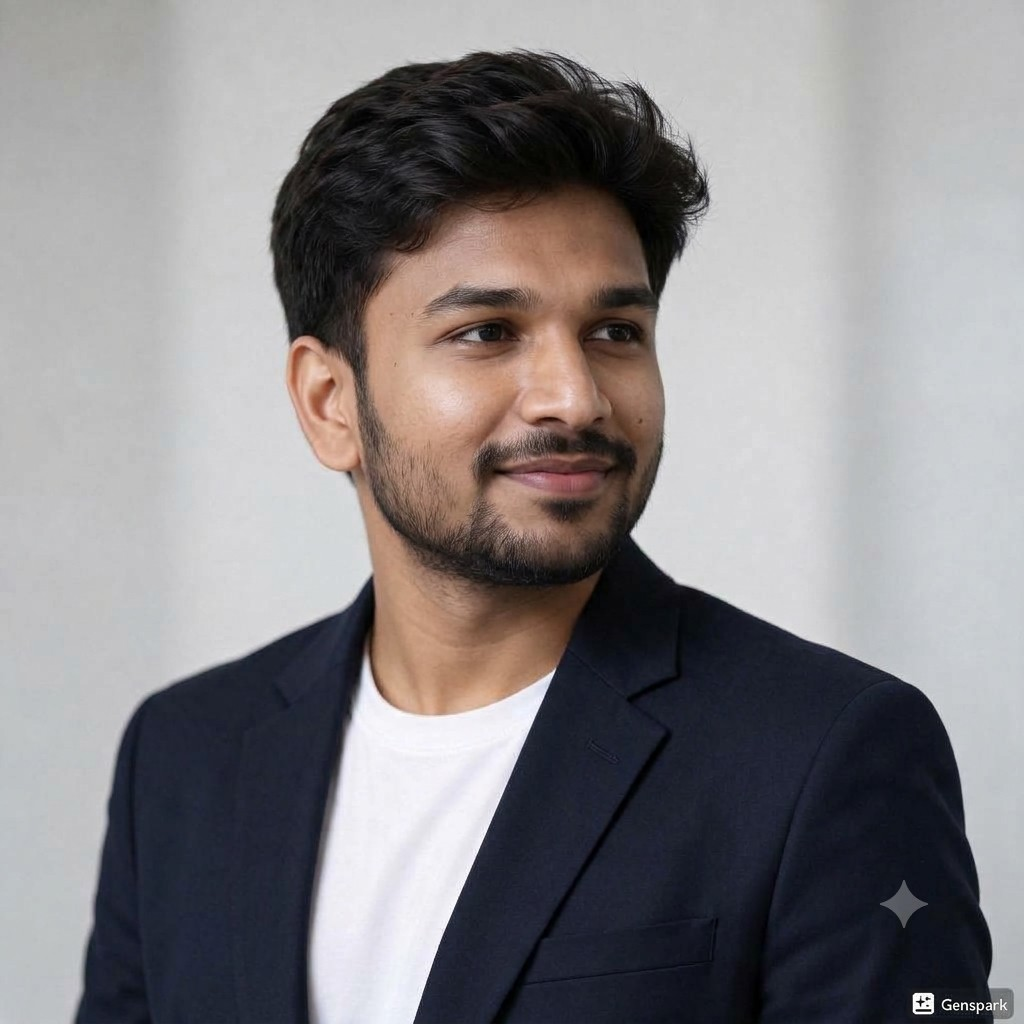
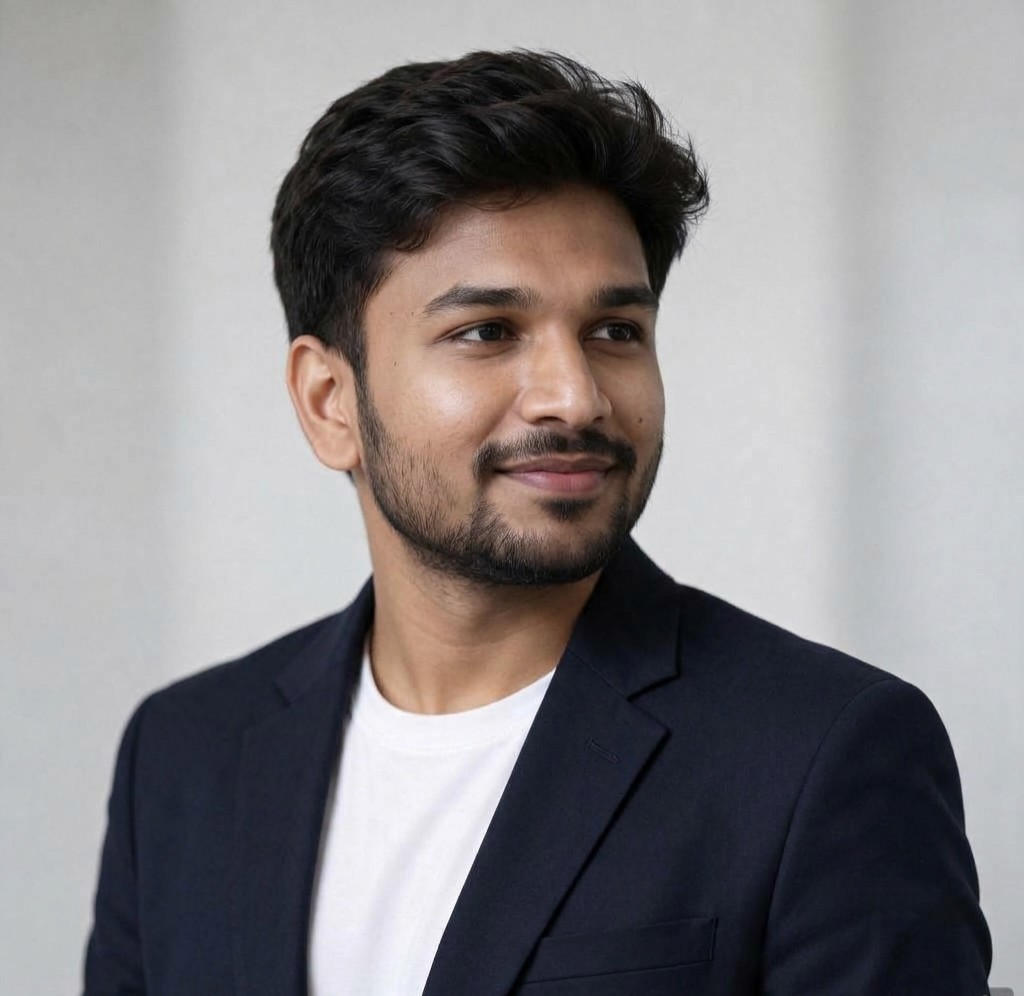
fix: use clean profile photo and drop watermark workarounds
Replace the portrait with the watermark-free image and remove crop,
overlay, and processing helper code.

diff --git a/src/components/Hero.tsx b/src/components/Hero.tsx
@@ -109,16 +109,16 @@ export function Hero() {
               className="absolute -inset-2 rounded-[1.75rem] border border-[color-mix(in_oklab,var(--accent)_55%,transparent)] sm:-inset-4"
               aria-hidden
             />
-            <div className="relative overflow-hidden rounded-[1.35rem] border border-[var(--border)] bg-[var(--surface)] shadow-[0_24px_80px_rgb(0_0_0_/0.28)]">
+            <div className="overflow-hidden rounded-[1.35rem] border border-[var(--border)] bg-[var(--surface)] shadow-[0_24px_80px_rgb(0_0_0_/0.28)]">
               <img
-                src={`${profile.photoPath}?v=2`}
+                src={profile.photoPath}
                 alt={profile.photoAlt}
                 width={640}
                 height={640}
                 loading="eager"
                 decoding="async"
                 fetchPriority="high"
-                className="aspect-square h-auto w-full scale-[1.12] object-cover object-[42%_28%]"
+                className="aspect-square h-auto w-full object-cover"
               />
             </div>
           </div>
